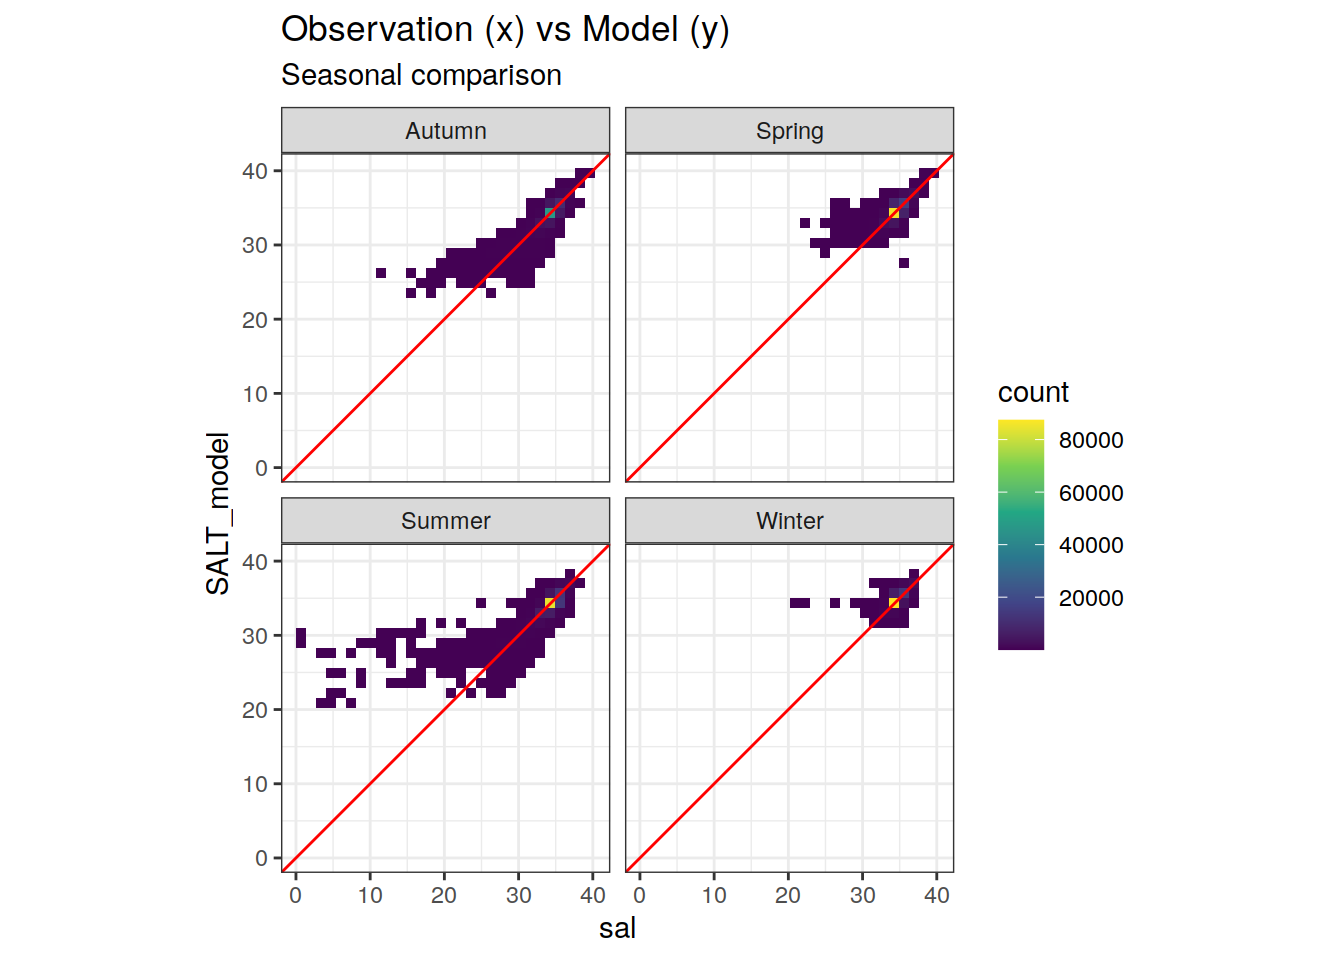
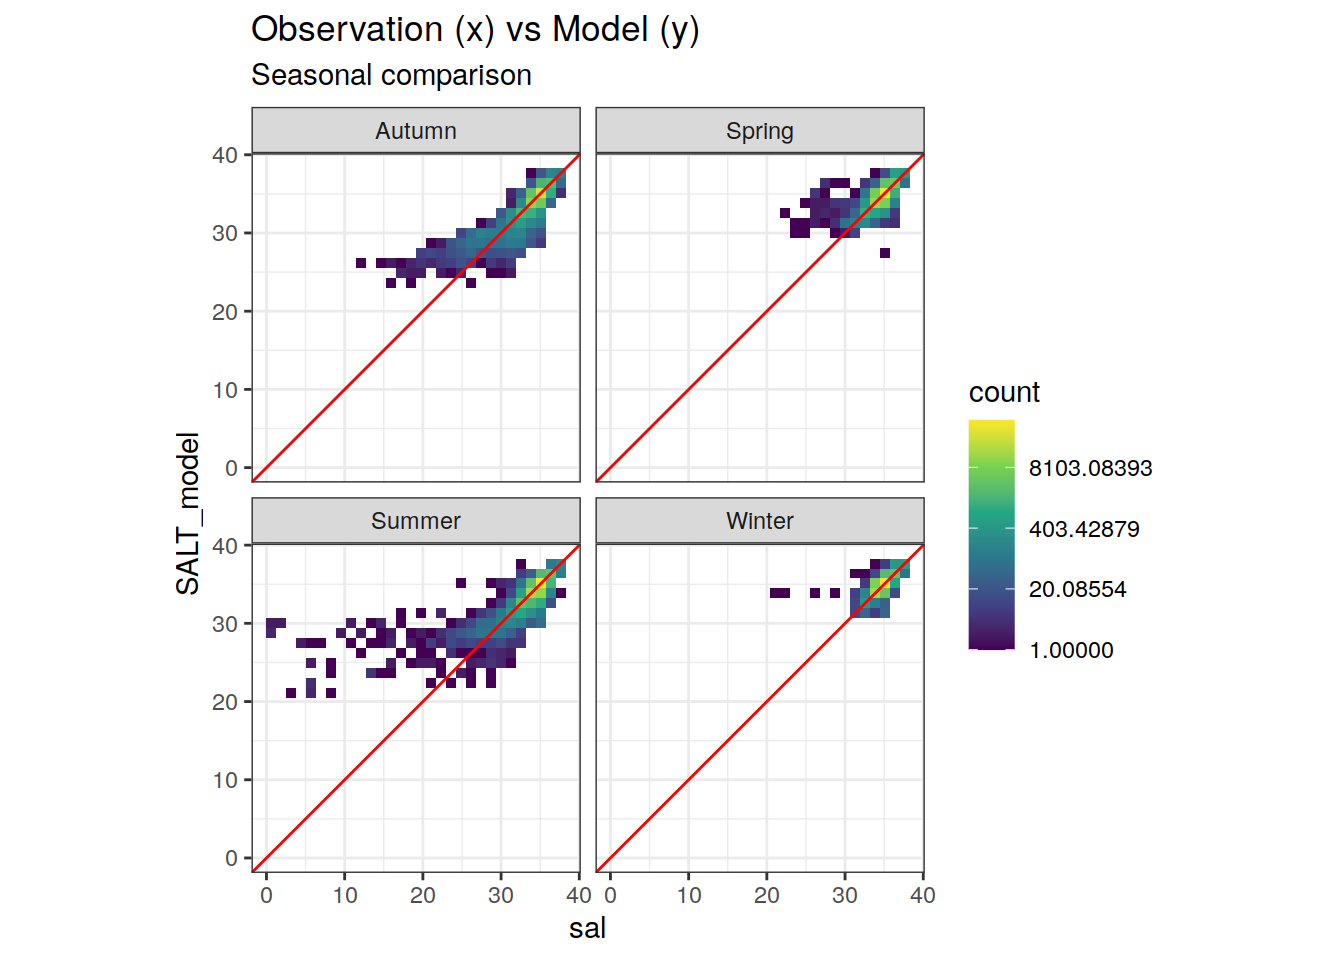
Build site.

diff --git a/docs/obs_model_comparison.html b/docs/obs_model_comparison.html
@@ -559,16 +559,16 @@ This reproducible <a href="http://rmarkdown.rstudio.com">R Markdown</a> analysis
 <div class="panel panel-default">
 <div class="panel-heading">
 <p class="panel-title">
-<a data-toggle="collapse" data-parent="#workflowr-checks" href="#strongRepositoryversionstrongahrefhttpsgithubcomDongheZhueMLRmodeltree07d5d1806b8cab32b7a4cfcad23ed0c6a25a3820targetblank07d5d18a"> <span class="glyphicon glyphicon-ok text-success" aria-hidden="true"></span> <strong>Repository version:</strong> <a href="https://github.com/Donghe-Zhu/eMLR_model/tree/07d5d1806b8cab32b7a4cfcad23ed0c6a25a3820" target="_blank">07d5d18</a> </a>
+<a data-toggle="collapse" data-parent="#workflowr-checks" href="#strongRepositoryversionstrongahrefhttpsgithubcomDongheZhueMLRmodeltree472bd604fe1c6468266d0f394190036a74b5767btargetblank472bd60a"> <span class="glyphicon glyphicon-ok text-success" aria-hidden="true"></span> <strong>Repository version:</strong> <a href="https://github.com/Donghe-Zhu/eMLR_model/tree/472bd604fe1c6468266d0f394190036a74b5767b" target="_blank">472bd60</a> </a>
 </p>
 </div>
[2 lines of base64/hex data omitted]
 <div class="panel-body">
 <p>
 Great! You are using Git for version control. Tracking code development and connecting the code version to the results is critical for reproducibility.
 </p>
 <p>
-The results in this page were generated with repository version <a href="https://github.com/Donghe-Zhu/eMLR_model/tree/07d5d1806b8cab32b7a4cfcad23ed0c6a25a3820" target="_blank">07d5d18</a>. See the <em>Past versions</em> tab to see a history of the changes made to the R Markdown and HTML files.
+The results in this page were generated with repository version <a href="https://github.com/Donghe-Zhu/eMLR_model/tree/472bd604fe1c6468266d0f394190036a74b5767b" target="_blank">472bd60</a>. See the <em>Past versions</em> tab to see a history of the changes made to the R Markdown and HTML files.
 </p>
 <p>
 Note that you need to be careful to ensure that all relevant files for the analysis have been committed to Git prior to generating the results (you can use <code>wflow_publish</code> or <code>wflow_git_commit</code>). workflowr only checks the R Markdown file, but you know if there are other scripts or data files that it depends on. Below is the status of the Git repository when the results were generated:
@@ -619,6 +619,40 @@ Message
 </tr>
 </thead>
 <tbody>
+<tr>
+<td>
+Rmd
+</td>
+<td>
+<a href="https://github.com/Donghe-Zhu/eMLR_model/blob/472bd604fe1c6468266d0f394190036a74b5767b/analysis/obs_model_comparison.Rmd" target="_blank">472bd60</a>
+</td>
+<td>
+jens-daniel-mueller
+</td>
+<td>
+2020-11-21
+</td>
+<td>
+applied basin mask and logarithmic color scale
+</td>
+</tr>
+<tr>
+<td>
+html
+</td>
+<td>
+<a href="https://rawcdn.githack.com/Donghe-Zhu/eMLR_model/bb3d89daae27dba5e3c69757e671669601203190/docs/obs_model_comparison.html" target="_blank">bb3d89d</a>
+</td>
+<td>
+jens-daniel-mueller
+</td>
+<td>
+2020-11-21
+</td>
+<td>
+Build site.
+</td>
+</tr>
 <tr>
 <td>
 Rmd
@@ -1032,8 +1066,12 @@ GLODAP_model &lt;-
     sep = &quot;&quot;
   ))</code></pre>
 </div>
+<div id="apply-basin-mask" class="section level1">
+<h1><span class="header-section-number">2</span> Apply basin mask</h1>
+<pre class="r"><code>GLODAP_model &lt;- inner_join(GLODAP_model, basinmask)</code></pre>
+</div>
 <div id="observation-and-model-data-comparison" class="section level1">
-<h1><span class="header-section-number">2</span> Observation and model data comparison</h1>
+<h1><span class="header-section-number">3</span> Observation and model data comparison</h1>
 <pre class="r"><code># for loop across variables
 obs_var &lt;-
   c(&quot;tco2&quot;,
@@ -1106,7 +1144,7 @@ for (i in 1:8) {
         title = &quot;Observation (x) vs Model (y)&quot;,
         subtitle = &quot;Seasonal comparison&quot;
       ) +
-      scale_fill_viridis_c() +
+      scale_fill_viridis_c(trans = &quot;log&quot;) +
       geom_abline(slope = 1,
                   col = &#39;red&#39;) +
       coord_equal(xlim = axis_lims,
@@ -1125,7 +1163,7 @@ for (i in 1:8) {
         title = &quot;Observation (x) vs Model (y)&quot;,
         subtitle = &quot;All years&quot;
       ) +
-      scale_fill_viridis_c() +
+      scale_fill_viridis_c(trans = &quot;log&quot;) +
       geom_abline(slope = 1, col = &#39;red&#39;) +
       coord_equal(xlim = axis_lims,
                   ylim = axis_lims)
@@ -2638,7 +2676,7 @@ jens-daniel-mueller
 </div>
 </div>
 <div id="model-diagnostics" class="section level1">
-<h1><span class="header-section-number">3</span> Model diagnostics</h1>
+<h1><span class="header-section-number">4</span> Model diagnostics</h1>
 <p>A set of model summary statistics was calculated for each relevant variable and year.</p>
 <pre class="r"><code># write file for model summary statistics
 model_stats &lt;-
@@ -2738,11 +2776,11 @@ loaded via a namespace (and not attached):
 [29] fansi_0.4.1       broom_0.7.2       Rcpp_1.0.5        promises_1.1.1   
 [33] backports_1.1.10  scales_1.1.1      jsonlite_1.7.1    farver_2.0.3     
 [37] fs_1.5.0          hms_0.5.3         digest_0.6.27     stringi_1.5.3    
-[41] rprojroot_1.3-2   grid_4.0.3        cli_2.1.0         tools_4.0.3      
-[45] magrittr_1.5      crayon_1.3.4      whisker_0.4       pkgconfig_2.0.3  
-[49] ellipsis_0.3.1    xml2_1.3.2        reprex_0.3.0      lubridate_1.7.9  
-[53] assertthat_0.2.1  rmarkdown_2.5     httr_1.4.2        rstudioapi_0.11  
-[57] R6_2.5.0          git2r_0.27.1      compiler_4.0.3   </code></pre>
+[41] rprojroot_1.3-2   grid_4.0.3        here_0.1          cli_2.1.0        
+[45] tools_4.0.3       magrittr_1.5      crayon_1.3.4      whisker_0.4      
+[49] pkgconfig_2.0.3   ellipsis_0.3.1    xml2_1.3.2        reprex_0.3.0     
+[53] lubridate_1.7.9   assertthat_0.2.1  rmarkdown_2.5     httr_1.4.2       
+[57] rstudioapi_0.11   R6_2.5.0          git2r_0.27.1      compiler_4.0.3   </code></pre>
 </div>
 </div>
 
